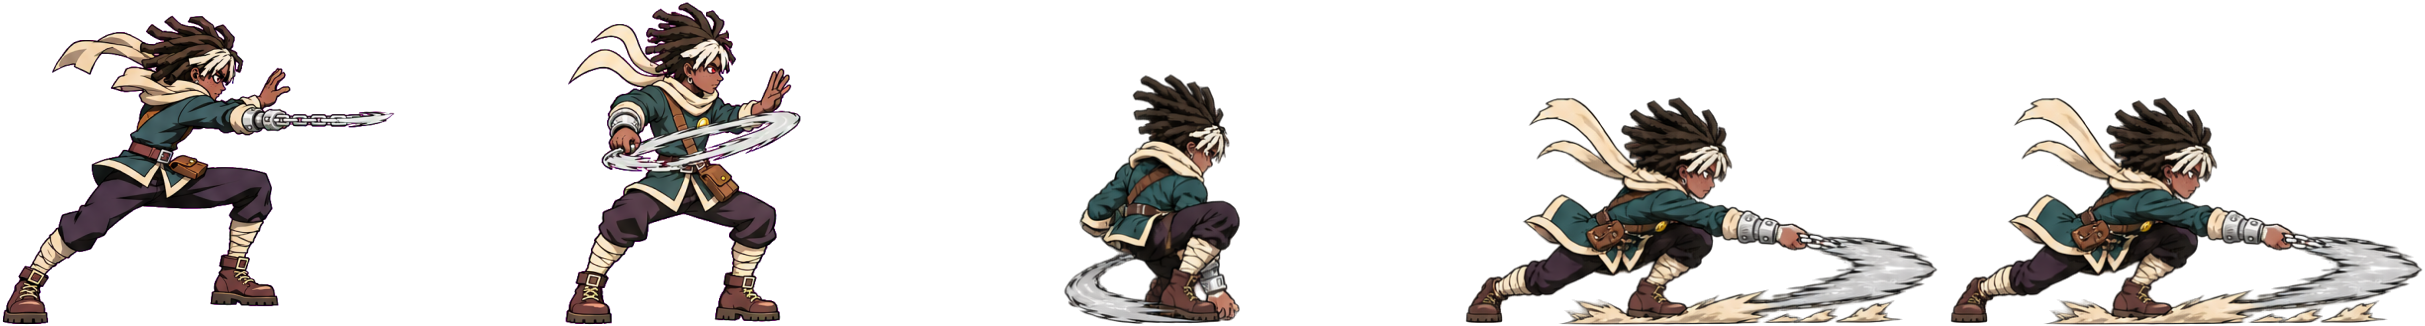
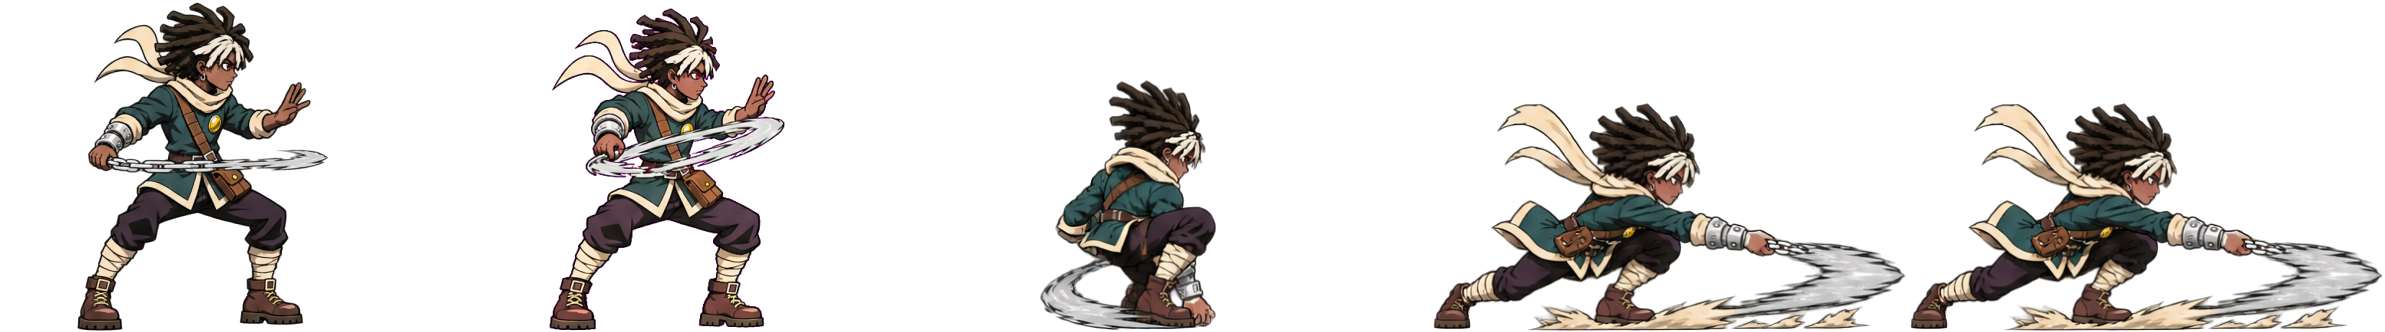
Avner: hit reaction art (standing, crouching, air, tumble, knockdown, get-up); Vigil stance back on the earlier animation
- hitStand, hitCrouch, hitAir, tumble (24-frame loop), knockdown, koDown, wakeup, thrown now drawn. Art only.
- Vigil entry and loop re-cut from the earlier stance animation (all eight loop drawings); the placeholders
  that open on the stance drawing rebuilt from it.
- 202 tests.

diff --git a/tests/avner-moves.test.js b/tests/avner-moves.test.js
@@ -156,3 +156,24 @@ test('Avner: the walk cycles loop cleanly (six drawings, eight frames each)', ()
     assert.deepEqual(st.frames.map((f) => f.sprite.index).filter((v, i, a) => v !== a[i - 1]), [0, 1, 2, 3, 4, 5]);
   }
 });
+
+test('Avner: hit reactions have their art (standing, crouching, air, tumble, knockdown, KO, getting up, thrown)', () => {
+  const c = loadChar(AVNER);
+  for (const name of ['hitStand', 'hitCrouch', 'hitAir', 'tumble', 'knockdown', 'koDown', 'wakeup', 'thrown']) {
+    assert.ok(c.sheets[name], `${name} has a sheet`);
+    assert.ok(c.states[name].frames.every((f) => f.sprite && f.sprite.sheet === name), `${name}: every frame is drawn`);
+  }
+  // The recoil plays first, then the last drawing holds for however long the stun lasts.
+  for (const name of ['hitStand', 'hitCrouch']) {
+    assert.deepEqual(c.states[name].frames.map((f) => f.sprite.index).filter((v, i, a) => v !== a[i - 1]), [0, 1, 2, 3]);
+  }
+  assert.equal(c.states.hitAir.frames.at(-1).sprite.index, 1);
+  assert.deepEqual([...new Set(c.states.tumble.frames.map((f) => f.sprite.index))], [0, 1, 2, 3], 'the tumble spins through its four drawings');
+  assert.equal(c.states.knockdown.frames.at(-1).sprite.index, 1, 'lying flat');
+  assert.ok(c.states.koDown.frames.every((f) => f.sprite.index === 1), 'a KO stays flat (no bounce replay)');
+  assert.equal(c.states.wakeup.frames.at(-1).sprite.index, 2, 'back on his feet');
+  // Art only: the rules of these states are the system's.
+  assert.equal(c.states.knockdown.duration, 40);
+  assert.equal(c.states.wakeup.duration, 12);
+  assert.ok(c.states.tumble.techable && c.states.tumble.loop);
+});

diff --git a/tests/avner-vigil.test.js b/tests/avner-vigil.test.js
@@ -50,7 +50,7 @@ test('Vigil: every move has the frame data and drawing holds of the spec', () =>
   assert.ok(s.vigil.frames.every((f) => !f.armor && !f.invStrike && !f.invThrow && f.hurt.length), 'entry: no armor, no invulnerability');
   assert.equal(s.vigil.next, 'vigilStance');
   assert.deepEqual([s.vigilStance.duration, s.vigilStance.loop, s.vigilStance.timeout, s.vigilStance.timeoutTo, s.vigilStance.onBack], [24, true, 120, 'vigilExit', 'vigilExit']);
-  assert.deepEqual(holds('vigilStance'), [4, 4, 4, 3, 3, 3, 3], 'loop: 7 drawings (the hop was cut) filling the same 24 frames');
+  assert.deepEqual(holds('vigilStance'), [3, 3, 3, 3, 3, 3, 3, 3], 'loop: 8 drawings, 3 frames each');
   assert.ok(!s.vigilStance.free, 'no walking or blocking in the stance');
 
   assert.deepEqual([s.vigilSnap.move.startup, s.vigilSnap.move.active, s.vigilSnap.move.recovery, s.vigilSnap.move.guard], [7, 3, 14, 'low']);

diff --git a/docs/reports/avner-vigil.md b/docs/reports/avner-vigil.md
@@ -26,11 +26,24 @@ the Tests list, after "Flare detonate at full screen vs fizzle;").
 - **Back Heavy (4 + H)** reaches twice as far, with your new drawings (again without the third, the hop, and with the
   lash on the frames that hit). Startup, active, recovery, damage and self-push are untouched.
 
+## Hit reactions (added after the Vigil work, same branch)
+
+Avner now has drawings for being hit. Art only: no rule or number changed.
+
+- **Standing and crouching hits:** the recoil drawings play over the first 12 frames, then the fourth drawing (guard
+  coming back up) holds for whatever hitstun is left.
+- **Air hits:** the first drawing for 5 frames, then the second holds. When the untechable time ends he tumbles
+  through the three spinning drawings and back to the second, 6 frames each, until he techs or lands.
+- **Knockdown:** the landing drawing for 6 frames, then flat on his back. **Getting up** is the last three drawings,
+  4 frames each. A KO stays on the flat drawing.
+- **Held in a throw:** the standing recoil drawing, since there is no drawing for it.
+- The hold lengths are my first pass. The drawings were matched to his standing and crouching size.
+
 ## Which file I used for what
 
 | Your file | Used for |
 | --- | --- |
-| `Avner_VigilStance.png` (the 15:46 version) | Drawing 1: the entry. Drawings 2, 3, 4, 6, 7, 8, 9: the stance loop (drawing 5, the hop, removed as you asked). |
+| `Avner_VigilStance.png` (the earlier animation, which you switched back to) | Drawing 1: the entry. Drawings 2 to 9: the stance loop. |
 | `Avner_VigilStance_MediumPunch.png` | Vigil Crescent (M), drawings 2 to 6. |
 | `Avner_VigilStance_MediumPunch_Projectile_Release_Movement_Impact.png` | The crescent itself: release, flight loop, impact. Your spec calls it `Avner_VigilM_Projectile.png`. |
 | `Avner_VigilStance_S.png` | Flare: top row 1 to 3 the turn, 4 to 6 the detonation; bottom row the fizzle. |
@@ -39,6 +52,8 @@ the Tests list, after "Flare detonate at full screen vs fizzle;").
 | `Avner_BrandMark.png` | The Brand on the opponent while it lasts (as before). |
 | `Avner_BrandHitFlash.png` | The Brand being applied (Snap and the crescent's hit). |
 | `Avner_Back_HeavyPunch.png` (the 16:00 version) | Back Heavy. |
+| `Avner_HitReaction_StandingAndCrouching.png` | Top row: hit while standing. Bottom row: hit while crouching. |
+| `Avner_HitReaction_Air.png` | Top row: 1 and 2 hit in the air, 3, 4, 5 (then 2) the tumble. Bottom row: 1 and 2 the knockdown, 3, 4, 5 getting up. |
 
 **Placeholders** (no sheet found; every one has `placeholder` in its file name, in `sheets/`):
 
@@ -77,11 +92,11 @@ the Tests list, after "Flare detonate at full screen vs fizzle;").
 9. **Back means held back.** If you are still holding back when the stance starts, he steps straight out. A follow-up
    pressed on the same frame wins.
 10. **The 120 frames restart each time he comes back into the stance** (after Snap, M or a detonated Flare).
-11. **With drawing 5 gone the loop has 7 drawings, and I kept it 24 frames long** (holds 4, 4, 4, 3, 3, 3, 3), so
-    the stance's timing and the two effect layers are unchanged. Every follow-up still opens on the loop's first
-    drawing (your drawing 2).
-12. **The stance sheet's second row is drawn about 9% bigger than its first** (the earlier version was 2.5%). I
-    scaled the rows to match by body size. His feet still shift a little between drawings.
+11. **The stance is back on your earlier animation, with all eight loop drawings.** You asked me to remove frame 5
+    while the newer animation was in; that was its hop. The earlier animation has no hop in drawing 5, so I kept
+    all of 2 to 9 (3 frames each, as the spec says). If you want its fifth drawing out too, say so.
+12. **The earlier stance sheet's second row is drawn slightly bigger than its first.** Scaled to match in height;
+    the back foot still shifts about 5 px once per loop.
 13. **Numbers the spec left open, all first guesses in data:** Snap 300 damage and 16 hitstun; crescent 400 damage
     and 18 hitstun; Anchor 500 damage, reach 300 px, hits mid; Flare 300 damage. Follow-ups work whatever direction
     is held.
@@ -101,7 +116,7 @@ the Tests list, after "Flare detonate at full screen vs fizzle;").
 
 ## Tests
 
-201 tests, all passing (20 new in `tests/avner-vigil.test.js`; the old placeholder-stance test was removed with the
+202 tests, all passing (20 new in `tests/avner-vigil.test.js`, 1 for the hit-reaction art; the old placeholder-stance test was removed with the
 placeholder). `npm run build` passes. The new tests cover everything on your list as far as the paste went:
 
 - Each move's frame data and drawing holds.

diff --git a/CLAUDE.md b/CLAUDE.md
@@ -70,7 +70,7 @@ Current through **Phase 9** (all phases of the brief done), plus **Avner: Brand 
 - **Art in the renderer** (all drawing-only data the core carries but never reads): move `chain` (`drawChain`: hand
   → hitbox tip, or → opponent after a hit while they slide), move `hitFx` (a sheet effect spawned from the hit cue,
   aged per game frame so it plays through hitstop), var `mark.sprite`. `drawSheetFrame` draws one frame of any sheet
-  (no palette). Move `chain.hands` gives the hand point per sprite frame; top-level `effects` are named sheets a timeline `fx` cue plays (Halo Rise arc). The fighter in an attack is drawn in front for the whole move (`front` in fight-renderer.js; ties keep the last). Avner has art for idle, crouch, jump/fall/land, 5L, 5M, 5H, 2L, 2M, 5S, j.L, j.M, the Hooks (9 drawings, 8 used; drawn straight chain erased so the engine chain is the only one), Halo Rise (623 L/M/H), Reel, Lightstep, Back Heavy (`backHeavy`, 4H), the two-hit Air Heavy (j.H, a second `hit` event with `hitProps`), dashes, air dash and the three blocks (stun states take their table length from the sheet's `holds`, last drawing holds); raw drawings stay beside `sheets/`. Walk cycles (`walkF`/`walkB` are 48 frames for Avner). The Vigil kit is below. Screens call `renderer.notice(game, world)` after every step so cues are never missed when several steps run between draws; all sheets preload. **Throws only come out in range** (`throwInRange` in `pickCommand`: a command with `throw` is skipped unless its grab box touches a throwable opponent now, so 4H = back throw up close, else Back Heavy; 6H out of range = 5H). Reports: `docs/reports/avner-hook.md`, `avner-moves.md`. Tests: `tests/avner-moves.test.js`.
+  (no palette). Move `chain.hands` gives the hand point per sprite frame; top-level `effects` are named sheets a timeline `fx` cue plays (Halo Rise arc). The fighter in an attack is drawn in front for the whole move (`front` in fight-renderer.js; ties keep the last). Avner has art for idle, crouch, jump/fall/land, 5L, 5M, 5H, 2L, 2M, 5S, j.L, j.M, the Hooks (9 drawings, 8 used; drawn straight chain erased so the engine chain is the only one), Halo Rise (623 L/M/H), Reel, Lightstep, Back Heavy (`backHeavy`, 4H), the two-hit Air Heavy (j.H, a second `hit` event with `hitProps`), dashes, air dash and the three blocks (stun states take their table length from the sheet's `holds`, last drawing holds); raw drawings stay beside `sheets/`. Walk cycles (`walkF`/`walkB` are 48 frames for Avner). Hit reactions have art too: `hitStand`, `hitCrouch`, `hitAir`, `tumble` (24-frame loop for Avner), `knockdown`, `koDown`, `wakeup`, `thrown`. The Vigil kit is below. Screens call `renderer.notice(game, world)` after every step so cues are never missed when several steps run between draws; all sheets preload. **Throws only come out in range** (`throwInRange` in `pickCommand`: a command with `throw` is skipped unless its grab box touches a throwable opponent now, so 4H = back throw up close, else Back Heavy; 6H out of range = 5H). Reports: `docs/reports/avner-hook.md`, `avner-moves.md`. Tests: `tests/avner-moves.test.js`.
 
 - **Vigil stance** (Avner; spec kept verbatim in `docs/specs/avner-vigil.md`, report `docs/reports/avner-vigil.md`, tests
   `tests/avner-vigil.test.js`). `vigil` (22S, 20 frames) → state `vigilStance` (24-frame loop, `timeout` 120 and
